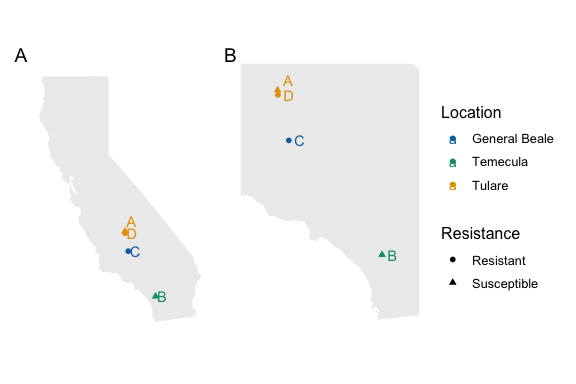
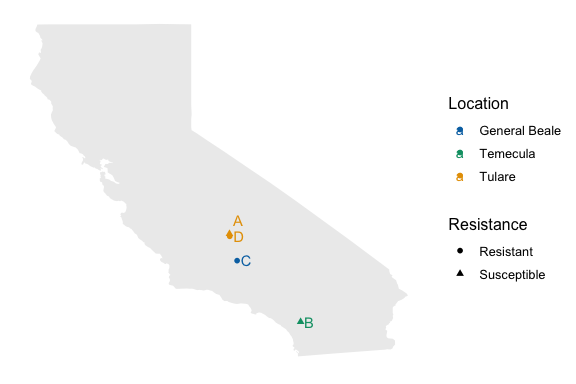
Updating for revisions

diff --git a/pipeline/09_R_analyses.md b/pipeline/09_R_analyses.md
@@ -82,87 +82,88 @@ sessionInfo()
     ## [8] methods   base     
     ## 
     ## other attached packages:
-    ##  [1] maps_3.4.0                  multcomp_1.4-18            
-    ##  [3] TH.data_1.1-0               MASS_7.3-55                
-    ##  [5] survival_3.2-13             mvtnorm_1.1-3              
+    ##  [1] maps_3.4.0                  multcomp_1.4-19            
+    ##  [3] TH.data_1.1-1               MASS_7.3-57                
+    ##  [5] survival_3.3-1              mvtnorm_1.1-3              
     ##  [7] svglite_2.1.0               gridExtra_2.3              
-    ##  [9] pophelper_2.3.1             bigsnpr_1.9.12             
+    ##  [9] pophelper_2.3.1             bigsnpr_1.10.8             
     ## [11] bigstatsr_1.5.6             viridis_0.6.2              
     ## [13] viridisLite_0.4.0           gggenomes_0.9.5.9000       
-    ## [15] snakecase_0.11.0            jsonlite_1.7.3             
+    ## [15] snakecase_0.11.0            jsonlite_1.8.0             
     ## [17] thacklr_0.0.0.9000          gggenes_0.4.1              
     ## [19] OutFLANK_0.2                qvalue_2.26.0              
     ## [21] LEA_3.6.0                   ggplotify_0.1.0            
     ## [23] vcfR_1.12.0                 poppr_2.9.3                
     ## [25] SNPRelate_1.28.0            gdsfmt_1.30.0              
-    ## [27] pegas_1.1                   hierfstat_0.5-10           
-    ## [29] adegenet_2.1.5              ade4_1.7-18                
-    ## [31] ape_5.6-1                   treeio_1.19.1              
+    ## [27] pegas_1.1                   hierfstat_0.5-11           
+    ## [29] adegenet_2.1.7              ade4_1.7-19                
+    ## [31] ape_5.6-2                   treeio_1.19.1              
     ## [33] ggtree_3.2.1                ggupset_0.3.0              
-    ## [35] pathview_1.34.0             enrichplot_1.14.1          
+    ## [35] pathview_1.34.0             enrichplot_1.14.2          
     ## [37] AnnotationForge_1.36.0      AnnotationDbi_1.56.2       
     ## [39] clusterProfiler_4.2.2       patchwork_1.1.1            
-    ## [41] RColorBrewer_1.1-2          pheatmap_1.0.12            
+    ## [41] RColorBrewer_1.1-3          pheatmap_1.0.12            
     ## [43] DESeq2_1.34.0               SummarizedExperiment_1.24.0
     ## [45] Biobase_2.54.0              MatrixGenerics_1.6.0       
-    ## [47] matrixStats_0.61.0          GenomicRanges_1.46.1       
+    ## [47] matrixStats_0.62.0          GenomicRanges_1.46.1       
     ## [49] GenomeInfoDb_1.30.1         IRanges_2.28.0             
-    ## [51] S4Vectors_0.32.3            BiocGenerics_0.40.0        
+    ## [51] S4Vectors_0.32.4            BiocGenerics_0.40.0        
     ## [53] vroom_1.5.7                 forcats_0.5.1              
-    ## [55] stringr_1.4.0               dplyr_1.0.8                
+    ## [55] stringr_1.4.0               dplyr_1.0.9                
     ## [57] purrr_0.3.4                 readr_2.1.2                
-    ## [59] tidyr_1.2.0                 tibble_3.1.6               
-    ## [61] ggplot2_3.3.5               tidyverse_1.3.1            
-    ## [63] biobroom_1.26.0             broom_0.7.12               
-    ## [65] knitr_1.37                 
+    ## [59] tidyr_1.2.0                 tibble_3.1.7               
+    ## [61] ggplot2_3.3.6               tidyverse_1.3.1            
+    ## [63] biobroom_1.26.0             broom_1.0.0                
+    ## [65] knitr_1.39                 
     ## 
     ## loaded via a namespace (and not attached):
     ##   [1] bit64_4.0.5            DelayedArray_0.20.0    data.table_1.14.2     
-    ##   [4] KEGGREST_1.34.0        RCurl_1.98-1.6         doParallel_1.0.17     
-    ##   [7] generics_0.1.2         cowplot_1.1.1          RSQLite_2.2.10        
-    ##  [10] shadowtext_0.1.1       combinat_0.0-8         ggfittext_0.9.1       
-    ##  [13] bit_4.0.4              tzdb_0.2.0             xml2_1.3.3            
+    ##   [4] KEGGREST_1.34.0        RCurl_1.98-1.7         doParallel_1.0.17     
+    ##   [7] generics_0.1.3         cowplot_1.1.1          RSQLite_2.2.14        
+    ##  [10] shadowtext_0.1.2       combinat_0.0-8         ggfittext_0.9.1       
+    ##  [13] bit_4.0.4              tzdb_0.3.0             xml2_1.3.3            
     ##  [16] lubridate_1.8.0        httpuv_1.6.5           assertthat_0.2.1      
-    ##  [19] xfun_0.29              hms_1.1.1              evaluate_0.15         
-    ##  [22] promises_1.2.0.1       fansi_1.0.2            dbplyr_2.1.1          
-    ##  [25] readxl_1.3.1           Rgraphviz_2.38.0       igraph_1.2.11         
-    ##  [28] DBI_1.1.2              geneplotter_1.72.0     ellipsis_0.3.2        
+    ##  [19] xfun_0.31              hms_1.1.1              evaluate_0.15         
+    ##  [22] promises_1.2.0.1       fansi_1.0.3            dbplyr_2.2.1          
+    ##  [25] readxl_1.4.0           Rgraphviz_2.38.0       igraph_1.3.2          
+    ##  [28] DBI_1.1.3              geneplotter_1.72.0     ellipsis_0.3.2        
     ##  [31] backports_1.4.1        permute_0.9-7          annotate_1.72.0       
-    ##  [34] vctrs_0.3.8            cachem_1.0.6           withr_2.5.0           
-    ##  [37] ggforce_0.3.3          vegan_2.5-7            cluster_2.1.2         
-    ##  [40] DOSE_3.20.1            lazyeval_0.2.2         crayon_1.5.0          
+    ##  [34] vctrs_0.4.1            cachem_1.0.6           withr_2.5.0           
+    ##  [37] ggforce_0.3.3          vegan_2.6-2            cluster_2.1.3         
+    ##  [40] DOSE_3.20.1            lazyeval_0.2.2         crayon_1.5.1          
     ##  [43] genefilter_1.76.0      pkgconfig_2.0.3        tweenr_1.0.2          
-    ##  [46] nlme_3.1-155           rlang_1.0.2            lifecycle_1.0.1       
-    ##  [49] sandwich_3.0-1         downloader_0.4         seqinr_4.2-8          
+    ##  [46] nlme_3.1-158           rlang_1.0.4            lifecycle_1.0.1       
+    ##  [49] sandwich_3.0-2         downloader_0.4         seqinr_4.2-16         
     ##  [52] modelr_0.1.8           cellranger_1.1.0       polyclip_1.10-0       
-    ##  [55] graph_1.72.0           Matrix_1.4-0           aplot_0.1.2           
-    ##  [58] zoo_1.8-9              boot_1.3-28            reprex_2.0.1          
-    ##  [61] png_0.1-7              bitops_1.0-7           Biostrings_2.62.0     
-    ##  [64] blob_1.2.2             gridGraphics_0.5-1     scales_1.1.1          
-    ##  [67] lpSolve_5.6.15         memoise_2.0.1          magrittr_2.0.2        
-    ##  [70] plyr_1.8.6             zlibbioc_1.40.0        compiler_4.1.2        
-    ##  [73] scatterpie_0.1.7       KEGGgraph_1.54.0       flock_0.7             
-    ##  [76] cli_3.2.0              XVector_0.34.0         bigsparser_0.6.0      
-    ##  [79] formatR_1.11           mgcv_1.8-38            tidyselect_1.1.1      
-    ##  [82] stringi_1.7.6          yaml_2.3.4             GOSemSim_2.20.0       
-    ##  [85] locfit_1.5-9.4         ggrepel_0.9.1          fastmatch_1.1-3       
-    ##  [88] tools_4.1.2            bigassertr_0.1.5       parallel_4.1.2        
-    ##  [91] label.switching_1.8    rstudioapi_0.13        foreach_1.5.2         
-    ##  [94] farver_2.1.0           ggraph_2.0.5           digest_0.6.29         
-    ##  [97] shiny_1.7.1            Rcpp_1.0.8.2           later_1.3.0           
-    ## [100] bigparallelr_0.3.2     org.Hs.eg.db_3.14.0    httr_1.4.2            
-    ## [103] colorspace_2.0-3       rvest_1.0.2            XML_3.99-0.8          
-    ## [106] fs_1.5.2               splines_4.1.2          polysat_1.7-6         
-    ## [109] yulab.utils_0.0.4      tidytree_0.3.8         graphlayouts_0.8.0    
-    ## [112] sp_1.4-6               systemfonts_1.0.4      xtable_1.8-4          
-    ## [115] tidygraph_1.2.0        ggfun_0.0.5            R6_2.5.1              
-    ## [118] pillar_1.7.0           htmltools_0.5.2        mime_0.12             
-    ## [121] glue_1.6.2             fastmap_1.1.0          pinfsc50_1.2.0        
-    ## [124] BiocParallel_1.28.3    codetools_0.2-18       fgsea_1.20.0          
-    ## [127] utf8_1.2.2             lattice_0.20-45        GO.db_3.14.0          
-    ## [130] rmarkdown_2.11         munsell_0.5.0          DO.db_2.9             
-    ## [133] GenomeInfoDbData_1.2.7 iterators_1.0.14       haven_2.4.3           
-    ## [136] reshape2_1.4.4         gtable_0.3.0
+    ##  [55] graph_1.72.0           rngtools_1.5.2         Matrix_1.4-1          
+    ##  [58] aplot_0.1.6            zoo_1.8-10             boot_1.3-28           
+    ##  [61] reprex_2.0.1           png_0.1-7              bitops_1.0-7          
+    ##  [64] Biostrings_2.62.0      blob_1.2.3             doRNG_1.8.2           
+    ##  [67] gridGraphics_0.5-1     scales_1.2.0           lpSolve_5.6.15        
+    ##  [70] memoise_2.0.1          magrittr_2.0.3         plyr_1.8.7            
+    ##  [73] zlibbioc_1.40.0        compiler_4.1.2         scatterpie_0.1.7      
+    ##  [76] KEGGgraph_1.54.0       flock_0.7              cli_3.3.0             
+    ##  [79] XVector_0.34.0         bigsparser_0.6.1       formatR_1.12          
+    ##  [82] mgcv_1.8-40            tidyselect_1.1.2       stringi_1.7.8         
+    ##  [85] yaml_2.3.5             GOSemSim_2.20.0        locfit_1.5-9.6        
+    ##  [88] ggrepel_0.9.1          fastmatch_1.1-3        tools_4.1.2           
+    ##  [91] bigassertr_0.1.5       parallel_4.1.2         label.switching_1.8   
+    ##  [94] rstudioapi_0.13        foreach_1.5.2          farver_2.1.1          
+    ##  [97] ggraph_2.0.5           digest_0.6.29          shiny_1.7.1           
+    ## [100] Rcpp_1.0.9             later_1.3.0            bigparallelr_0.3.2    
+    ## [103] org.Hs.eg.db_3.14.0    httr_1.4.3             colorspace_2.0-3      
+    ## [106] rvest_1.0.2            XML_3.99-0.10          fs_1.5.2              
+    ## [109] splines_4.1.2          polysat_1.7-6          yulab.utils_0.0.5     
+    ## [112] tidytree_0.3.9         graphlayouts_0.8.0     sp_1.5-0              
+    ## [115] systemfonts_1.0.4      xtable_1.8-4           tidygraph_1.2.1       
+    ## [118] ggfun_0.0.6            R6_2.5.1               pillar_1.7.0          
+    ## [121] htmltools_0.5.2        mime_0.12              glue_1.6.2            
+    ## [124] fastmap_1.1.0          pinfsc50_1.2.0         BiocParallel_1.28.3   
+    ## [127] codetools_0.2-18       fgsea_1.20.0           utf8_1.2.2            
+    ## [130] lattice_0.20-45        GO.db_3.14.0           rmarkdown_2.14        
+    ## [133] munsell_0.5.0          DO.db_2.9              GenomeInfoDbData_1.2.7
+    ## [136] iterators_1.0.14       haven_2.5.0            reshape2_1.4.4        
+    ## [139] gtable_0.3.0
 
 # (1) Transcriptome Expression Analyses
 
@@ -860,11 +861,16 @@ go_enrich.v2 <- pairwise_termsim(go_enrich)
 # RES > SUS
 res.cnet <- cnetplot(go_enrich.v2, foldChange = gene_list, showCategory = 10,
     categorySize = "geneNum") + scale_color_viridis_c(option = "B",
-    guide_legend(title = "fold change")) + guides(size = guide_legend(title = "No. of genes"))
+    guide_legend(title = "fold change")) + guides(size = guide_legend(title = "No. of genes")) +
+    scale_size_continuous(breaks = c(5, 10, 15, 20, 25), limits = c(0,
+        30))
 ```
 
     ## Scale for 'colour' is already present. Adding another scale for 'colour',
     ## which will replace the existing scale.
+
+    ## Scale for 'size' is already present. Adding another scale for 'size', which
+    ## will replace the existing scale.
 
 ``` r
 res.cnet + scale_color_viridis_c(option = "B")
@@ -923,11 +929,15 @@ go_enrich_sus.2 <- pairwise_termsim(go_enrich_sus)
 # plot of network of enriched GO terms
 sus.cnet <- cnetplot(go_enrich_sus.2, foldChange = (-gene_list),
     showCategory = 10, categorySize = "geneNum") + scale_color_viridis_c(option = "B",
-    guide_legend(title = "fold change")) + guides(size = guide_legend(title = "No. of genes"))
+    guide_legend(title = "fold change")) + guides(size = guide_legend(title = "No. of genes")) +
+    scale_size_continuous(breaks = c(5, 10, 15, 20, 25), limits = c(0,
+        30))
 ```
 
     ## Scale for 'colour' is already present. Adding another scale for 'colour',
     ## which will replace the existing scale.
+    ## Scale for 'size' is already present. Adding another scale for 'size', which
+    ## will replace the existing scale.
 
 ``` r
 # plot results together
@@ -1079,10 +1089,10 @@ pca <- snpgdsPCA(genofile, num.thread=2, autosome.only = FALSE)
     ##     # of principal components: 32
     ## PCA:    the sum of all selected genotypes (0,1,2) = 6366581
     ## CPU capabilities: Double-Precision SSE2
-    ## Thu Jun 23 18:42:50 2022    (internal increment: 61056)
+    ## Fri Sep 16 13:28:59 2022    (internal increment: 61056)
     ## [..................................................]  0%, ETC: ---        [==================================================] 100%, completed, 0s
-    ## Thu Jun 23 18:42:50 2022    Begin (eigenvalues and eigenvectors)
-    ## Thu Jun 23 18:42:50 2022    Done.
+    ## Fri Sep 16 13:28:59 2022    Begin (eigenvalues and eigenvectors)
+    ## Fri Sep 16 13:28:59 2022    Done.
 
 ``` r
 pc.percent <- pca$varprop*100
@@ -2001,4 +2011,12 @@ cali_map + close_up + plot_layout(guides = "collect") + plot_annotation(tag_leve
 
 ``` r
 #ggsave("plots/map.pdf", device="pdf", height = 4, width = 8, dpi=300)
+
+cali_map
+```
+
+![](09_R_analyses_files/figure-gfm/map-2.png)<!-- -->
+
+``` r
+#ggsave("plots/calimap.pdf", device="pdf", height = 4, width = 5, dpi=300)
 ```
